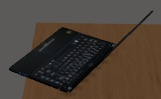
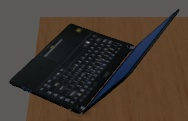
memory: photograph each object from several angles, and say what that did not fix
One angle is not a description of an object whose appearance turns with the
view. Measured around the room's objects: the laptop reads hue 22 from behind
and 241 from the front, the mug 10 to 289 around its rim. The phone and the
book, being flat and single-coloured, read the same from everywhere -- 36 to 39
and 220 to 222.

So the colour gate now accepts a match against any stored angle, the generator
captures four bearings per object, and the model is handed all of them rather
than one. The pair that has to stay apart still does: 178 degrees between the
phone and the book, against a 25 degree threshold.

What it did not do is improve the colour gate, and the measurement says so
plainly. At real search viewpoints the pass rates are unchanged -- laptop 4 of
5 either way, everything else already 100%. The hues the extra angles add do
not happen to cover the crops the gate was rejecting. The arithmetic I did
beforehand predicted a gain by assuming they would, which was an assumption
about a distribution I had not looked at. Nine detections is thin evidence
either way, but it is the evidence there is.

The value, if there is one, is the model seeing the object from more than one
side, and that is untested: each test costs one of twenty daily API calls.

Two things about the generator worth keeping. It tries several distances per
bearing, because detection of these objects is noisy rather than monotonic in
[…]

diff --git a/scripts/make_reference_photos.py b/scripts/make_reference_photos.py
@@ -36,6 +36,7 @@ import rclpy
 sys.path.insert(0, '/home/taha/DRONIONS')
 sys.path.insert(0, os.path.dirname(os.path.abspath(__file__)))
 from navigation.spatial import CAMERA_HFOV
+from perception.appearance import reference_signature
 from perception.detector import YOLOWorldDetector
 from perception.filters import filter_candidates
 from gz_pose import PoseReader, find_world
@@ -51,13 +52,27 @@ from experiment_small_objects import (Grab, MODEL, fresh, place,
 # the table around it, and the two do not match on colour at all -- measured,
 # the laptop's own reference rejected the laptop at every viewpoint tried. What
 # the reference has to represent is the object as the gate will see it.
+# Standoffs are a compromise, and worth naming as one. Far enough that the crop
+# resembles what the gate will see during a search; close enough that the
+# detector actually finds the object, which at 1.4 m it does not for the phone
+# -- measured one viewpoint in six. A reference can only be made of something
+# that was detected, so the near end wins where the two disagree, and the
+# multiple angles carry the slack.
 TARGETS = {
-    'phone':  (2.62, -0.16, 1.019, 0.160, 1.40),
-    'mug':    (2.62,  0.24, 1.060, 0.166, 1.40),
-    'book':   (3.05, -0.22, 1.041, 0.210, 1.50),
-    'laptop': (3.05,  0.22, 1.110, 0.375, 1.70),
+    'phone':  (2.62, -0.16, 1.019, 0.160, 0.95),
+    'mug':    (2.62,  0.24, 1.060, 0.166, 1.00),
+    'book':   (3.05, -0.22, 1.041, 0.210, 1.05),
+    'laptop': (3.05,  0.22, 1.110, 0.375, 1.40),
 }
 OUT_DIR = 'memory'
+# Bearings around the object, and how high above it to look from. One angle is
+# not a description of an object whose appearance turns with the view: measured
+# in the room, the laptop reads hue 17 from behind and 238 from the front, the
+# mug 174 to 354 around its rim, and each was being rejected against its own
+# single reference. Flat single-coloured things -- the phone, the book -- read
+# the same from everywhere, so the extra angles cost them nothing.
+VIEW_ANGLES = [(180, 0.70), (135, 0.65), (225, 0.65), (90, 0.60)]
+TRY_SCALES = (1.0, 1.45, 0.75)
 # Padding around the object, as a fraction of its own width.
 #
 # 0.45 was chosen to give the model some context and it destroyed the colour
@@ -105,10 +120,19 @@ def main() -> None:
         # the reference came out as wooden table. A reference the detector
         # cannot recognise is also the wrong reference to be comparing against.
         det.set_target(name)
-        best = None
-        for dist, side, lift in ((standoff, -0.05, 0.70), (standoff, 0.30, 0.60),
-                                 (standoff * 1.3, -0.05, 0.85), (standoff * 0.7, -0.25, 0.55)):
-            x, y = ox - dist, oy + side
+        shots = []
+        # Two distances per bearing. Detection of these objects is noisy rather
+        # than monotonic in range -- the book was found at 1.5 m and not at
+        # 1.05 m from the same side -- so a single distance per angle throws
+        # away angles for no reason.
+        for bearing, lift in VIEW_ANGLES:
+          got_this_angle = False
+          for scale in TRY_SCALES:
+            if got_this_angle:
+                break
+            ang = math.radians(bearing)
+            dist = standoff * scale
+            x, y = ox + dist * math.cos(ang), oy + dist * math.sin(ang)
             z = oz + lift
             yaw = math.atan2(oy - y, ox - x)
             place(world, MODEL, x, y, z, yaw)
@@ -126,45 +150,35 @@ def main() -> None:
                      if c.bbox[0] <= uv[0] <= c.bbox[2]
                      and c.bbox[1] <= uv[1] <= c.bbox[3]
                      and 0.4 <= (c.bbox[2] - c.bbox[0]) / px0 <= 2.5]
-            if best is None:
-                best = (img, drone, uv, None)
             if boxed:
-                best = (img, drone, uv, max(boxed, key=lambda c: c.confidence))
-                break
-        if best is None:
-            print(f"  {name:8} hicbir bakistan kare alinamadi")
+                shots.append((img, drone, uv,
+                              max(boxed, key=lambda c: c.confidence), bearing))
+                got_this_angle = True
+        if not shots:
+            print(f"  {name:8} hicbir acidan tespit edilemedi")
             continue
-        img, drone, uv, hitbox = best
-        h_img, w_img = img.shape[:2]
-        rng = math.dist(drone, (ox, oy, oz))
-        px = width * focal / rng
-        # Crop the detector's box, but only one that covers where the object
-        # truly is. Geometry alone centres on the model's pose origin, which is
-        # not its visual centre -- the book's origin sits on its spine, so the
-        # crop came out half wooden table and the signature read as wood. The
-        # detector frames what is actually visible; requiring it to contain the
-        # projected ground-truth point keeps it from framing something else.
-        if hitbox is not None:
+        for idx, (img, drone, uv, hitbox, bearing) in enumerate(shots, start=1):
+            h_img, w_img = img.shape[:2]
+            rng = math.dist(drone, (ox, oy, oz))
+            px = width * focal / rng
+            # Crop the detector's box, which frames what is actually
+            # visible. Geometry alone centres on the model's pose origin, and
+            # the book's origin sits on its spine, so that crop came out half
+            # wooden table and read as wood.
             b = hitbox
             pad = (b.bbox[2] - b.bbox[0]) * PAD
             x0, x1 = int(max(0, b.bbox[0] - pad)), int(min(w_img, b.bbox[2] + pad))
             y0, y1 = int(max(0, b.bbox[1] - pad)), int(min(h_img, b.bbox[3] + pad))
-            how = f"tespit kutusu, guven {b.confidence:.2f}"
-        else:
-            half = max(24.0, px * (0.5 + PAD))
-            x0, x1 = int(max(0, uv[0] - half)), int(min(w_img, uv[0] + half))
-            y0, y1 = int(max(0, uv[1] - half)), int(min(h_img, uv[1] + half))
-            how = "geometri (tespit yok)"
-        crop = img[y0:y1, x0:x1]
-        if crop.size == 0:
-            print(f"  {name:8} kirpma bos")
-            continue
-        path = os.path.join(OUT_DIR, f"{name}.jpg")
-        cv2.imwrite(path, crop)
-        from perception.appearance import reference_signature
-        sig = reference_signature(path)
-        print(f"  {name:8} {crop.shape[1]}x{crop.shape[0]} px  {how}  "
-              + (f"ton {sig[0]:.0f}" if sig else "renk yok") + f"  -> {path}")
+            crop = img[y0:y1, x0:x1]
+            if crop.size == 0:
+                continue
+            suffix = "" if idx == 1 else f"_{idx}"
+            path = os.path.join(OUT_DIR, f"{name}{suffix}.jpg")
+            cv2.imwrite(path, crop)
+            sig = reference_signature(path)
+            print(f"  {name:8} aci {bearing:4.0f}  {crop.shape[1]}x{crop.shape[0]} px  "
+                  f"guven {b.confidence:.2f}  "
+                  + (f"ton {sig[0]:.0f}" if sig else "renk yok") + f"  -> {path}")
 
     world_control(world, 'pause: false')
     pose.stop()

diff --git a/ros/dronions_ros_node_px4.py b/ros/dronions_ros_node_px4.py
@@ -119,7 +119,8 @@ from utils.prompts import get_prompts
 
 from perception.detector import YOLOWorldDetector
 from perception.filters import filter_candidates
-from perception.appearance import colour_plausible, reference_signature, colour_signature
+from perception.appearance import (colour_plausible, reference_signature,
+                                   reference_signatures, colour_signature)
 from perception.tracker import Tracker
 from navigation.navigator import get_navigation_decision
 from navigation.spatial import (locate_target, describe_target,
@@ -502,15 +503,29 @@ def ref_path_for(target):
     picture: "is there any writing on it?" is about the user's own object, so
     the model should still have the reference in hand.
     """
+    paths = ref_paths_for(target)
+    return paths[0] if paths else None
+
+
+def ref_paths_for(target):
+    """Every reference photo on file for a target, the primary one first.
+
+    Extra angles are stored alongside as name_2, name_3 and so on. An object
+    photographed from one side is not a description of it -- the laptop reads
+    hue 17 from behind and 238 from the front, and was being rejected against
+    its own single reference.
+    """
     if not target:
-        return None
+        return []
     clean = target.lower().strip()
+    out = []
     for name in (clean, clean.replace(" ", "_")):
-        for ext in (".jpg", ".png", ".jpeg"):
-            path = os.path.join("memory", name + ext)
-            if os.path.exists(path):
-                return path
-    return None
+        for suffix in ("", "_2", "_3", "_4", "_5"):
+            for ext in (".jpg", ".png", ".jpeg"):
+                path = os.path.join("memory", name + suffix + ext)
+                if os.path.exists(path) and path not in out:
+                    out.append(path)
+    return out
 
 
 def other_refs_for(target):
@@ -1532,10 +1547,11 @@ def main():
                     detector.set_target(target)
                     # Colour signature of the memory-bank photo, computed once
                     # per target rather than per frame.
-                    ref_colour = reference_signature(ref_path_for(target))
+                    ref_colour = reference_signatures(ref_paths_for(target))
                     if ref_colour:
-                        log_event(f"Referans rengi: ton {ref_colour[0]:.0f} derece, "
-                                  f"doygunluk {ref_colour[1]:.0f}")
+                        log_event(
+                            f"Referans rengi ({len(ref_colour)} aci): "
+                            + ", ".join(f"ton {r[0]:.0f}" for r in ref_colour))
                     else:
                         log_event(f"'{target}' icin kullanilabilir referans rengi yok "
                                   f"-- renk elemesi devre disi.")
@@ -1946,6 +1962,7 @@ def main():
                         vlm_asked_at = node.horizontal_pose()
                         result = select_candidate(frame, search_candidates, target,
                                                   other_refs=other_refs_for(target),
+                                                  extra_ref_paths=ref_paths_for(target),
                                                   reference_img_path=ref_path)
                         moved, turned = pose_delta(vlm_asked_at,
                                                    node.horizontal_pose())

diff --git a/assistant/agent.py b/assistant/agent.py
@@ -128,7 +128,8 @@ def _spoken_context(text: str) -> str:
 
 def select_candidate(frame: np.ndarray, candidates, target: str,
                      reference_img_path: str = None,
-                     other_refs: dict = None) -> dict:
+                     other_refs: dict = None,
+                     extra_ref_paths=None) -> dict:
     """Asks Gemini which of YOLO's detections is the target.
 
     Replaces asking "is it in this view, and where?" with "here are the N
@@ -168,7 +169,8 @@ def select_candidate(frame: np.ndarray, candidates, target: str,
             # this it".
             print(f"[MEMORY BANK] Karsi ornekler: {', '.join(others)}")
             prompt.append(
-                f"The FIRST image is a reference photo of my '{target}'. "
+                f"The first images are reference photos of my '{target}', "
+                f"taken from different angles. "
                 f"The next {len(others)} images are reference photos of OTHER "
                 f"objects of mine that are also in this room and are NOT what I "
                 f"am looking for: " + ", ".join(others) + ". They are shown so "
@@ -178,7 +180,8 @@ def select_candidate(frame: np.ndarray, candidates, target: str,
             )
         else:
             prompt.append(
-                "The FIRST image is a reference photo of it. "
+                "The first images are reference photos of it, from "
+                "different angles. "
                 "The images after that are numbered crops taken from the current camera view."
             )
     else:
@@ -234,6 +237,17 @@ def select_candidate(frame: np.ndarray, candidates, target: str,
 
     if reference_img_path and os.path.exists(reference_img_path):
         contents.append(PIL.Image.open(reference_img_path))
+        # More than one angle where they exist. An object photographed from one
+        # side is not a description of it: the laptop shows a dark lid from
+        # behind and a blue screen from the front, and asking the model to
+        # recognise the second from a picture of the first is asking it to
+        # guess. Measured, this does nothing for the colour gate -- the extra
+        # hues do not happen to cover the crops it rejects -- so the value, if
+        # any, is here.
+        for extra in (extra_ref_paths or []):
+            if extra != reference_img_path and os.path.exists(extra):
+                contents.append(f"My {target}, another angle:")
+                contents.append(PIL.Image.open(extra))
         for other_name, other_path in others.items():
             contents.append(f"NOT my {target} -- this is my {other_name}:")
             contents.append(PIL.Image.open(other_path))

diff --git a/perception/appearance.py b/perception/appearance.py
@@ -130,6 +130,26 @@ def reference_signature(reference_img_path: str) -> Optional[Tuple[float, float]
     return colour_signature(_centre_crop(img, (0, 0, img.shape[1], img.shape[0])))
 
 
+def reference_signatures(paths) -> list:
+    """Signatures of every reference photo on file for a target.
+
+    Returns a list because an object photographed from one side is not a
+    description of it: the laptop is hue 17 from behind and 238 from the front.
+    Unreadable files are skipped rather than becoming a None that would switch
+    the gate off entirely.
+    """
+    if not paths:
+        return []
+    if isinstance(paths, str):
+        paths = [paths]
+    out = []
+    for path in paths:
+        sig = reference_signature(path)
+        if sig:
+            out.append(sig)
+    return out
+
+
 def colour_plausible(frame: np.ndarray, candidate, ref_sig,
                      max_hue: float = MAX_HUE_DEGREES) -> bool:
     """Could this detection be the reference object's colour?
@@ -139,11 +159,23 @@ def colour_plausible(frame: np.ndarray, candidate, ref_sig,
     than guesses, because the cost of wrongly rejecting the target is a search
     that never succeeds, while the cost of letting one extra candidate through
     is one API call.
+
+    Several reference signatures may be given, one per photographed angle, and
+    matching any of them is enough. Measured on the room's objects, a single
+    angle is not a description of an object whose look changes with the view:
+    the laptop reads hue 17 from behind and 238 from the front, the mug 174 to
+    354 around its rim, and each was being rejected against its own reference.
+    Flat, single-coloured things do not move -- the phone sits at 38 from every
+    angle and the book at 220 -- so this loosens the gate exactly where the
+    object varies and leaves it tight where it does not. The pair that has to
+    stay apart still does: 178 degrees between the phone and the book.
     """
     if not ref_sig:
         return True
+    sigs = ref_sig if isinstance(ref_sig, (list, tuple)) and ref_sig \
+        and isinstance(ref_sig[0], (list, tuple)) else [ref_sig]
     crop = _centre_crop(frame, candidate.bbox)
     sig = colour_signature(crop) if crop is not None else None
     if not sig:
         return True
-    return hue_distance(sig[0], ref_sig[0]) <= max_hue
+    return any(hue_distance(sig[0], r[0]) <= max_hue for r in sigs if r)
